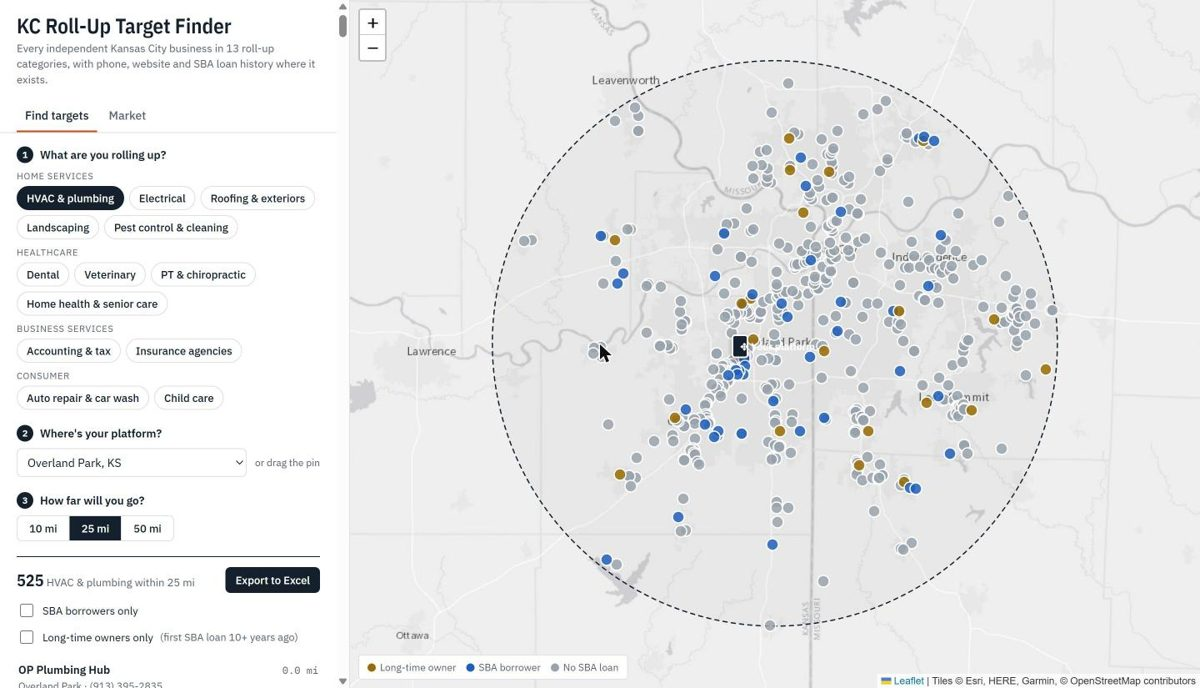
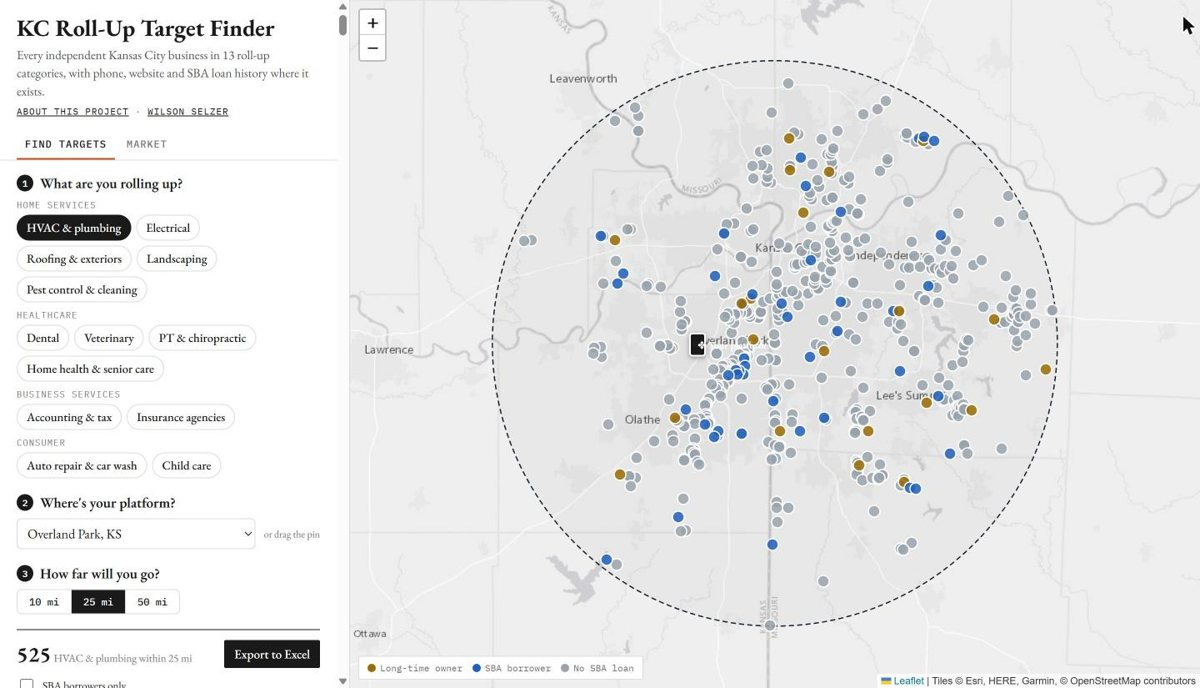
60 calls in first month; refreshed tool screenshot
Claude-Session: https://claude.ai/code/session_01XhjHobFuHByZKkqDKUDe5z

diff --git a/index.html b/index.html
@@ -49,7 +49,7 @@
       <div class="stats">
         <div class="stat"><b>9,860</b><span>Businesses mapped</span><small>KC roll-up target finder</small></div>
         <div class="stat"><b>15,000+</b><span>Operators unified</span><small>PE deal team data platform</small></div>
-        <div class="stat"><b>30+</b><span>Calls booked</span><small>By my networking agent</small></div>
+        <div class="stat"><b>60</b><span>Calls booked</span><small>By my networking agent, first month</small></div>
         <div class="stat"><b>4</b><span>Public data sources</span><small>Combined, refreshed monthly</small></div>
       </div>
     </div>
@@ -120,7 +120,7 @@
       <h3>Autonomous networking agent</h3>
       <p>I wanted to run a networking campaign at a scale I couldn't manage by hand.</p>
       <ul>
-        <li>Sources contacts, drafts personalized outreach and sends about 50 emails a day. It has booked 30+ calls with people at firms including Goldman Sachs, BlackRock and JPMorgan.</li>
+        <li>Sources contacts, drafts personalized outreach and sends about 50 emails a day. It booked 60 calls in its first month with people at firms including Goldman Sachs, BlackRock and JPMorgan.</li>
         <li>After spotting a gap, I added checks against sent mail and past conversations so it never contacts anyone twice.</li>
       </ul>
     </div>
